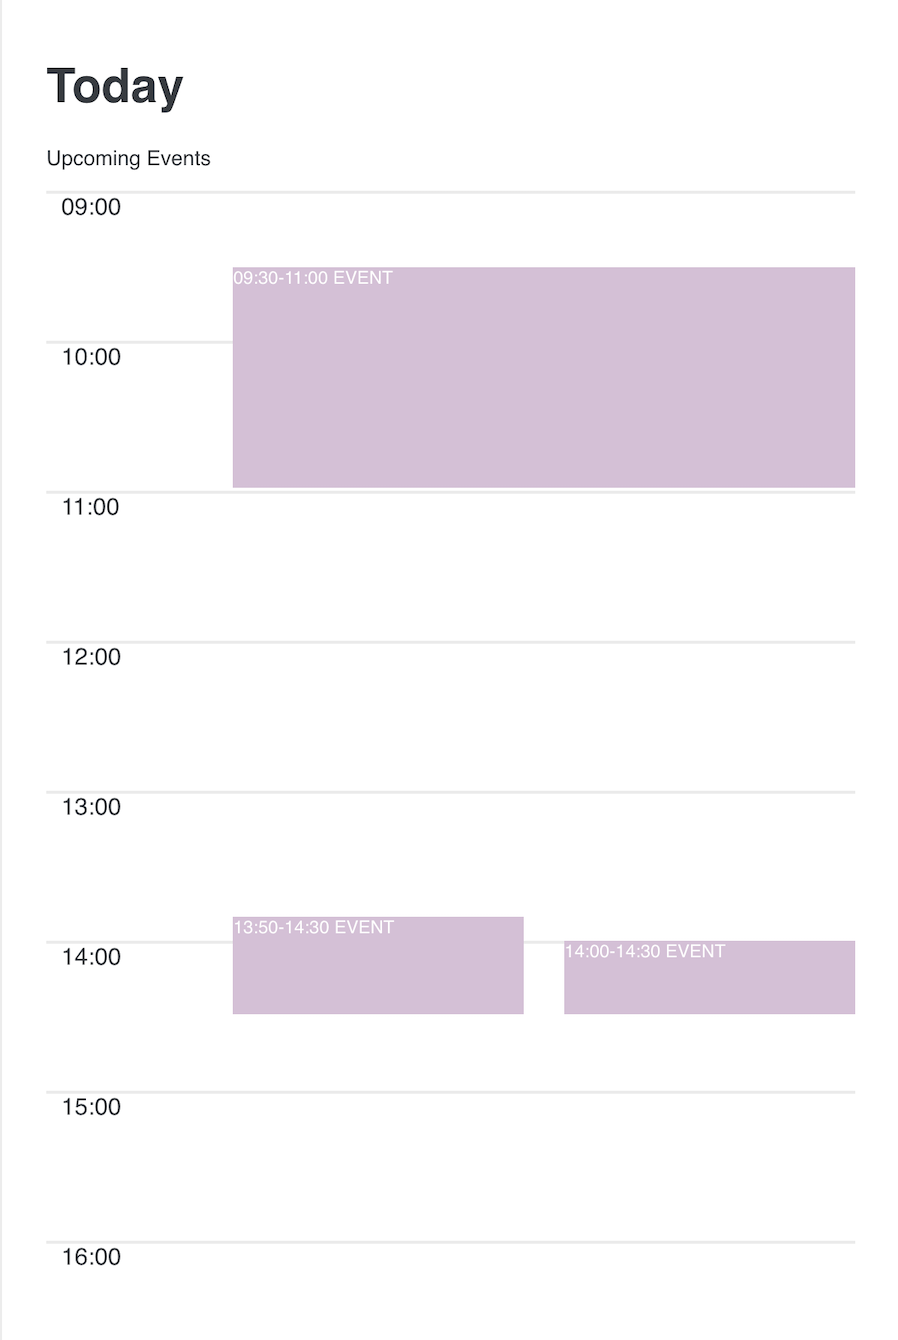
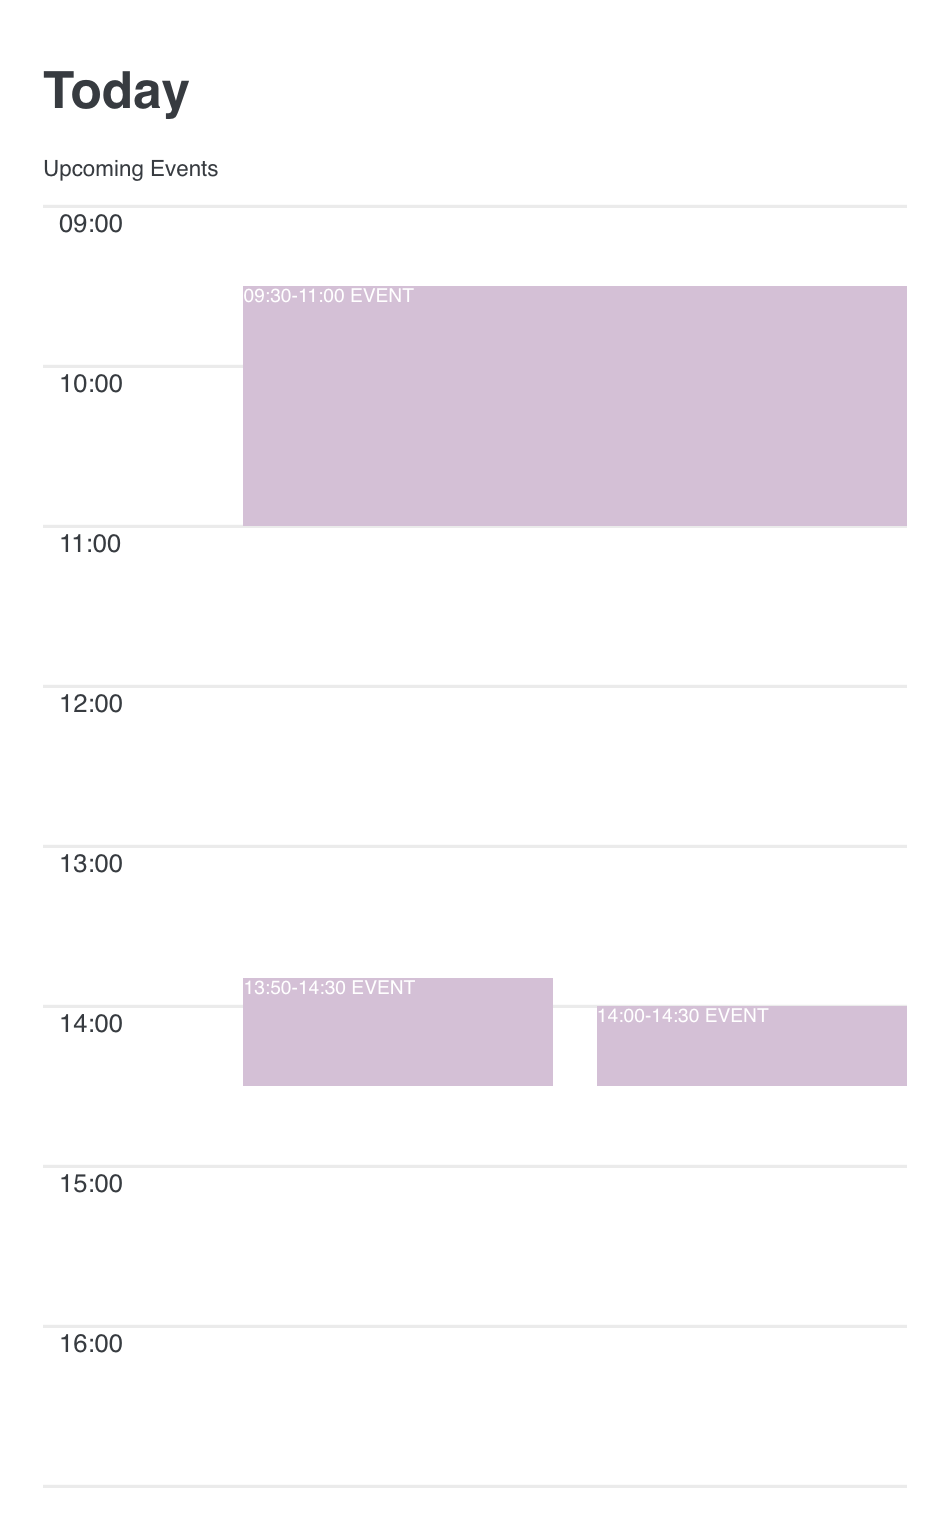
Solve border problem

diff --git a/src/Calendar.css b/src/Calendar.css
@@ -48,11 +48,12 @@ body {
   margin-left: 27px;
 }
 
+/* parent border problem: use absolute height */
 .eventBlock {
   display: flex;  
   align-items: stretch;
   width: 100%;
-  height: 100%;
+  height: 100px; 
   position: relative;
   background-color: rgba(0, 0, 0, 0);
 }
